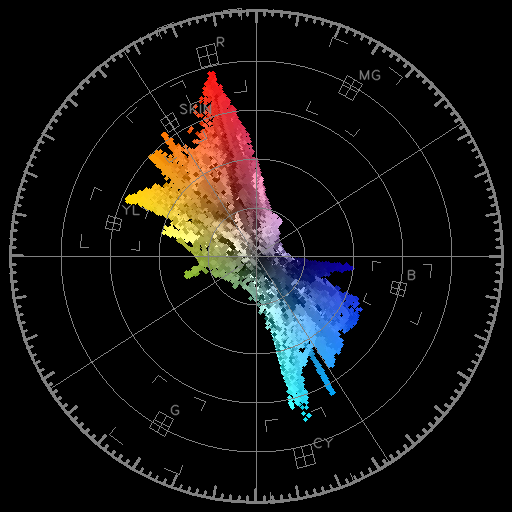
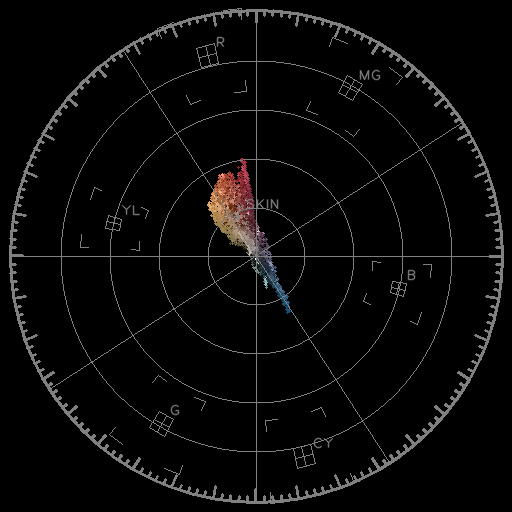
Remapped skin tone indicator, added exceptions on cv2 fail

Changed region(s): [[0.25, 0.125, 0.7188, 0.8125]]

diff --git a/vector_scope.py b/vector_scope.py
@@ -12,7 +12,7 @@ from platform import system
 import cv2
 import numpy as np
 
-startTime = time.perf_counter()
+startTime = time.time()
 # scope size
 cols = 512
 rows = 512
@@ -201,9 +201,8 @@ def draw_background(result_img, center_x, center_y, radius):
              (xe, ye), outerlinecolor, 1)
 
     # draw vectors
-    # [radius, theta, range]
     vec = [[0.0, 0.0, 1.0], [0.0, 1.0, 0.0], [0.0, 1.0, 1.0],
-           [1.0, 0.0, 0.0], [1.0, 0.0, 1.0], [1.0, 1.0, 0.0], [1.0, 0.4, 0.0]]
+           [1.0, 0.0, 0.0], [1.0, 0.0, 1.0], [1.0, 1.0, 0.0], [0.25, 0.07, 0.0]]
     col_name = ["B", "G", "CY", "R", "MG", "YL", "SKIN"]
 
     fontType = cv2.FONT_HERSHEY_PLAIN
@@ -236,10 +235,15 @@ if __name__ == '__main__':
         quit()
     print("Original width=", width, " height=", height, " depth=", depth)
     # resize big image(dimension >= 1024 * 1024) for better performance
+
     if height >= 1024 or width >= 1024:
         print('Resizing image for better performance...')
-        width_resized, height_resized = resize_image(width, height)
-        print("Resized width=", width_resized, " height=", height_resized)
+        try:
+            width_resized, height_resized = resize_image(width, height)
+            print("Resized width=", width_resized, " height=", height_resized)
+        except cv2.error:
+            print("Resize failed, using original image for calculation.")
+            width_resized, height_resized = width, height
     else:
         width_resized, height_resized = width, height
 
@@ -280,5 +284,5 @@ if __name__ == '__main__':
         print('Result saved as ' + savedir + 'result.png')
     # show vectorscope
     # cv2.imshow('vectorscope', result_img)
-    endTime = time.perf_counter()
+    endTime = time.time()
     print('Runtime: ' + str(endTime - startTime) + 's')
